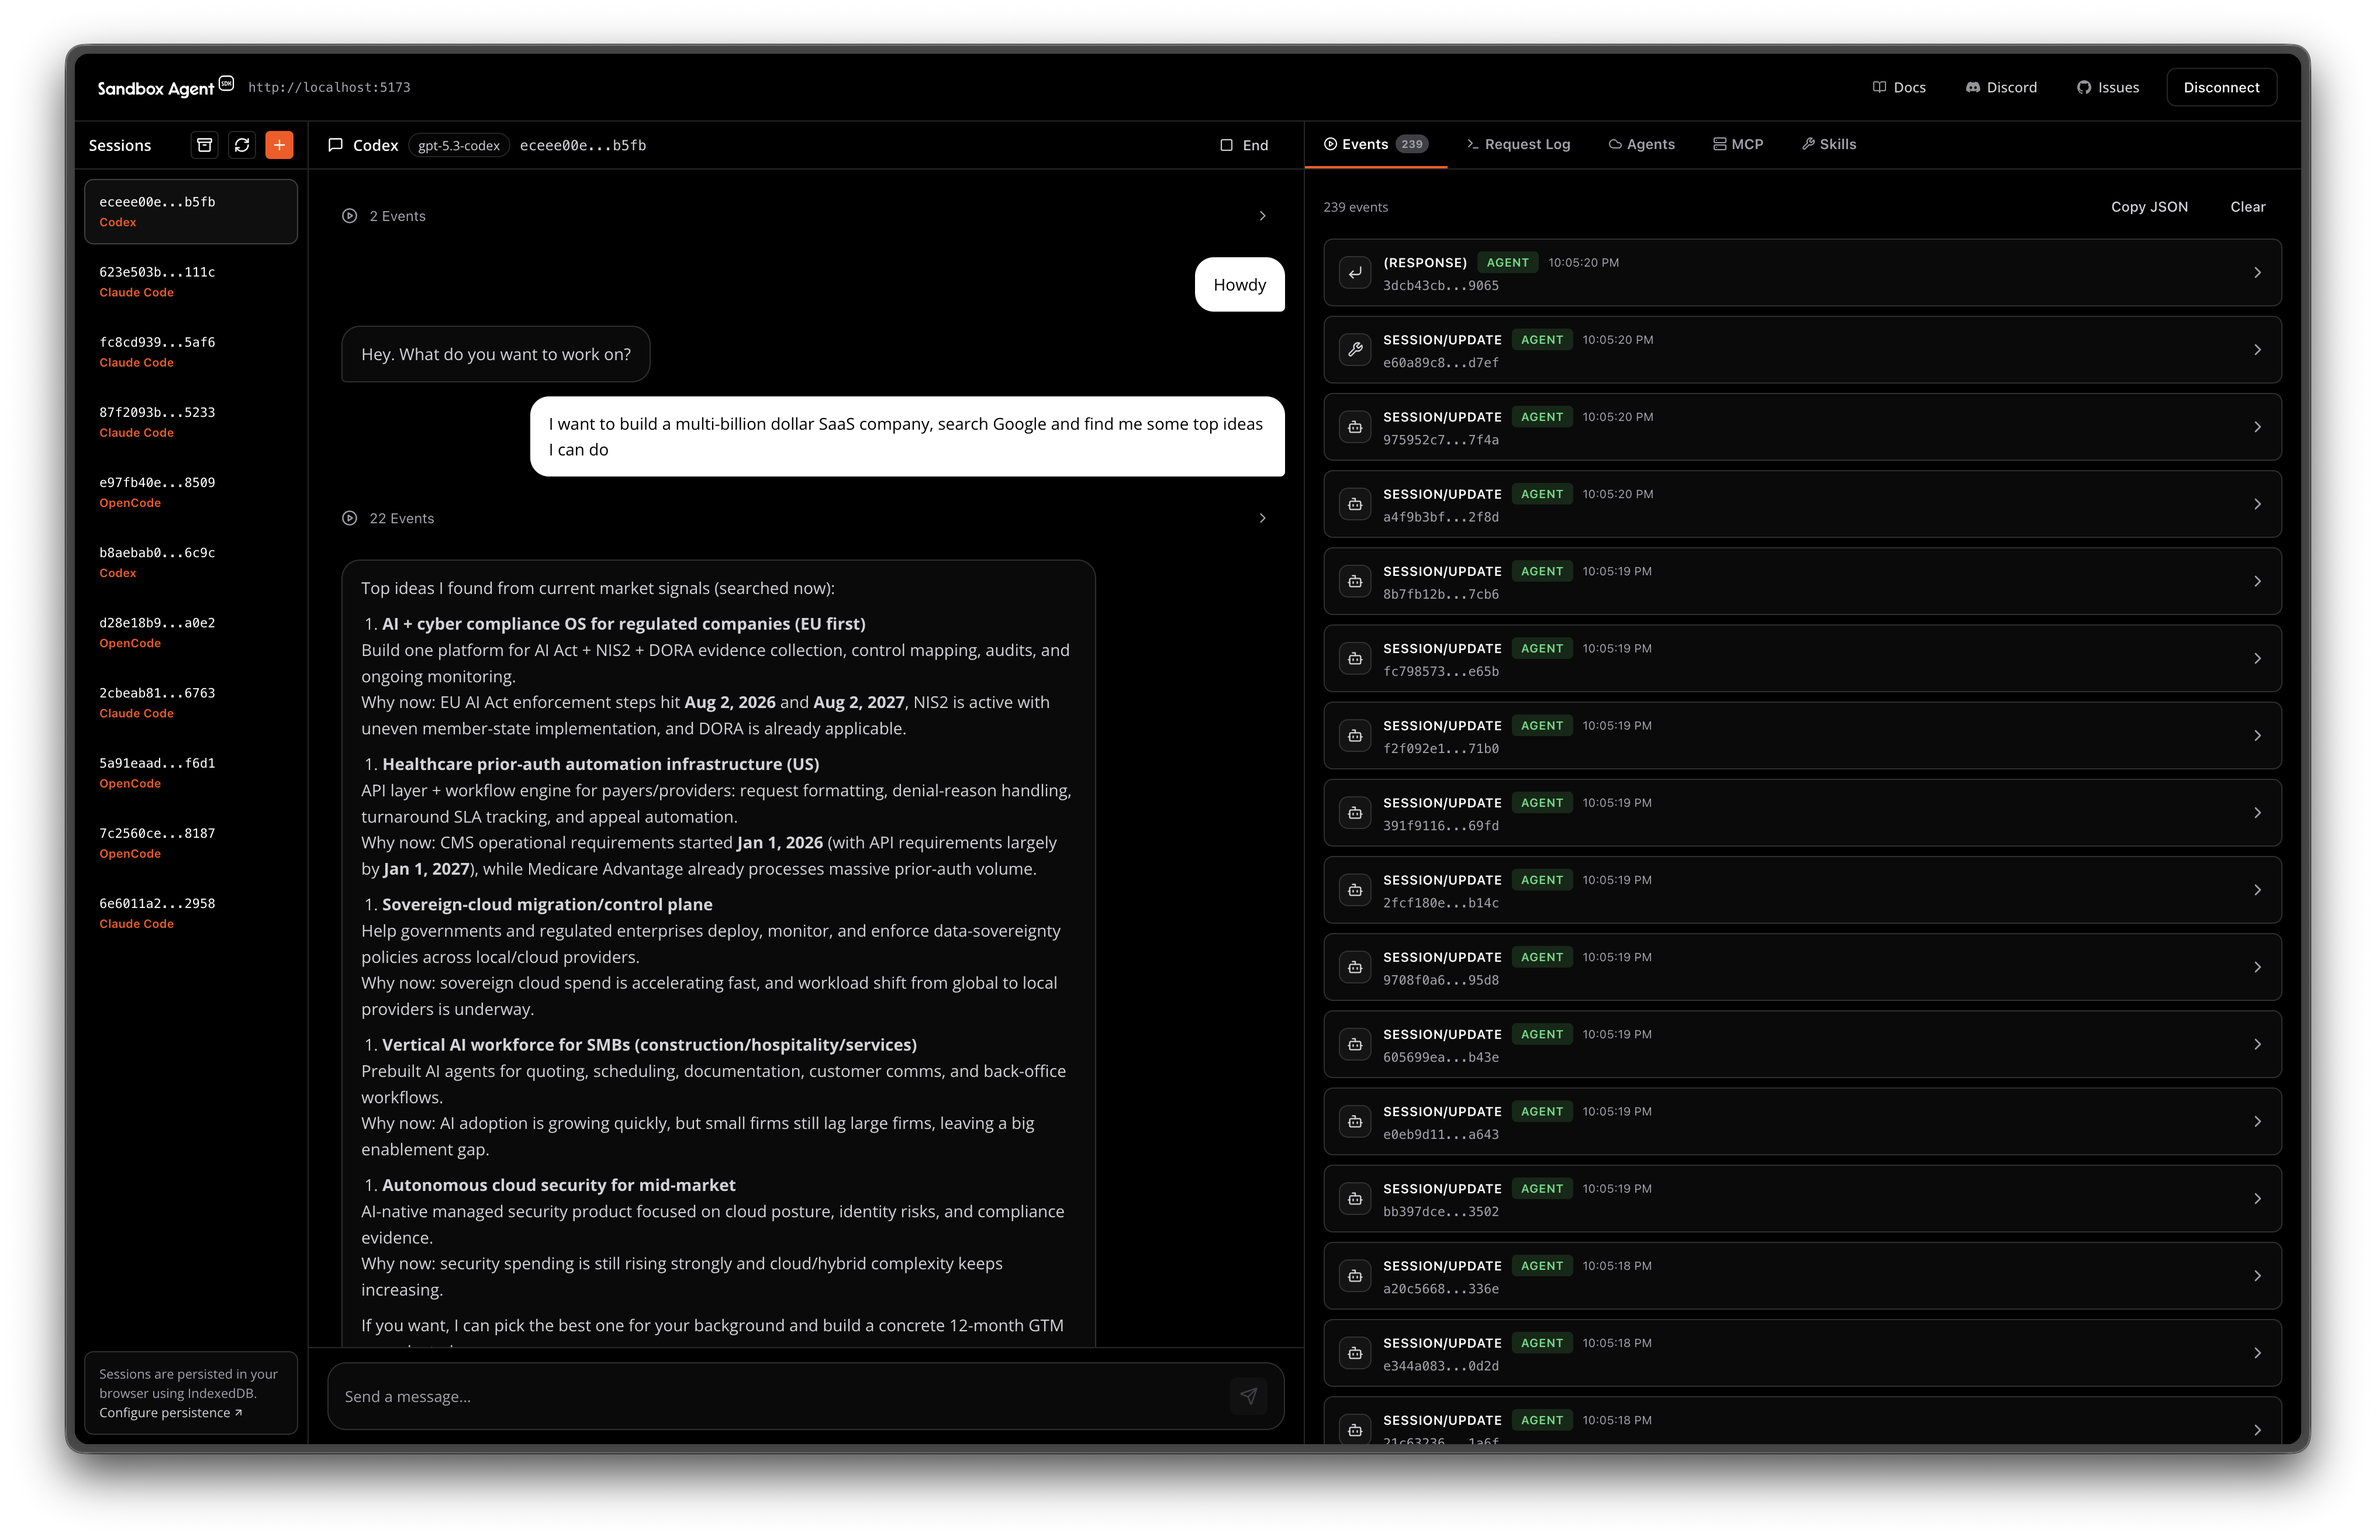
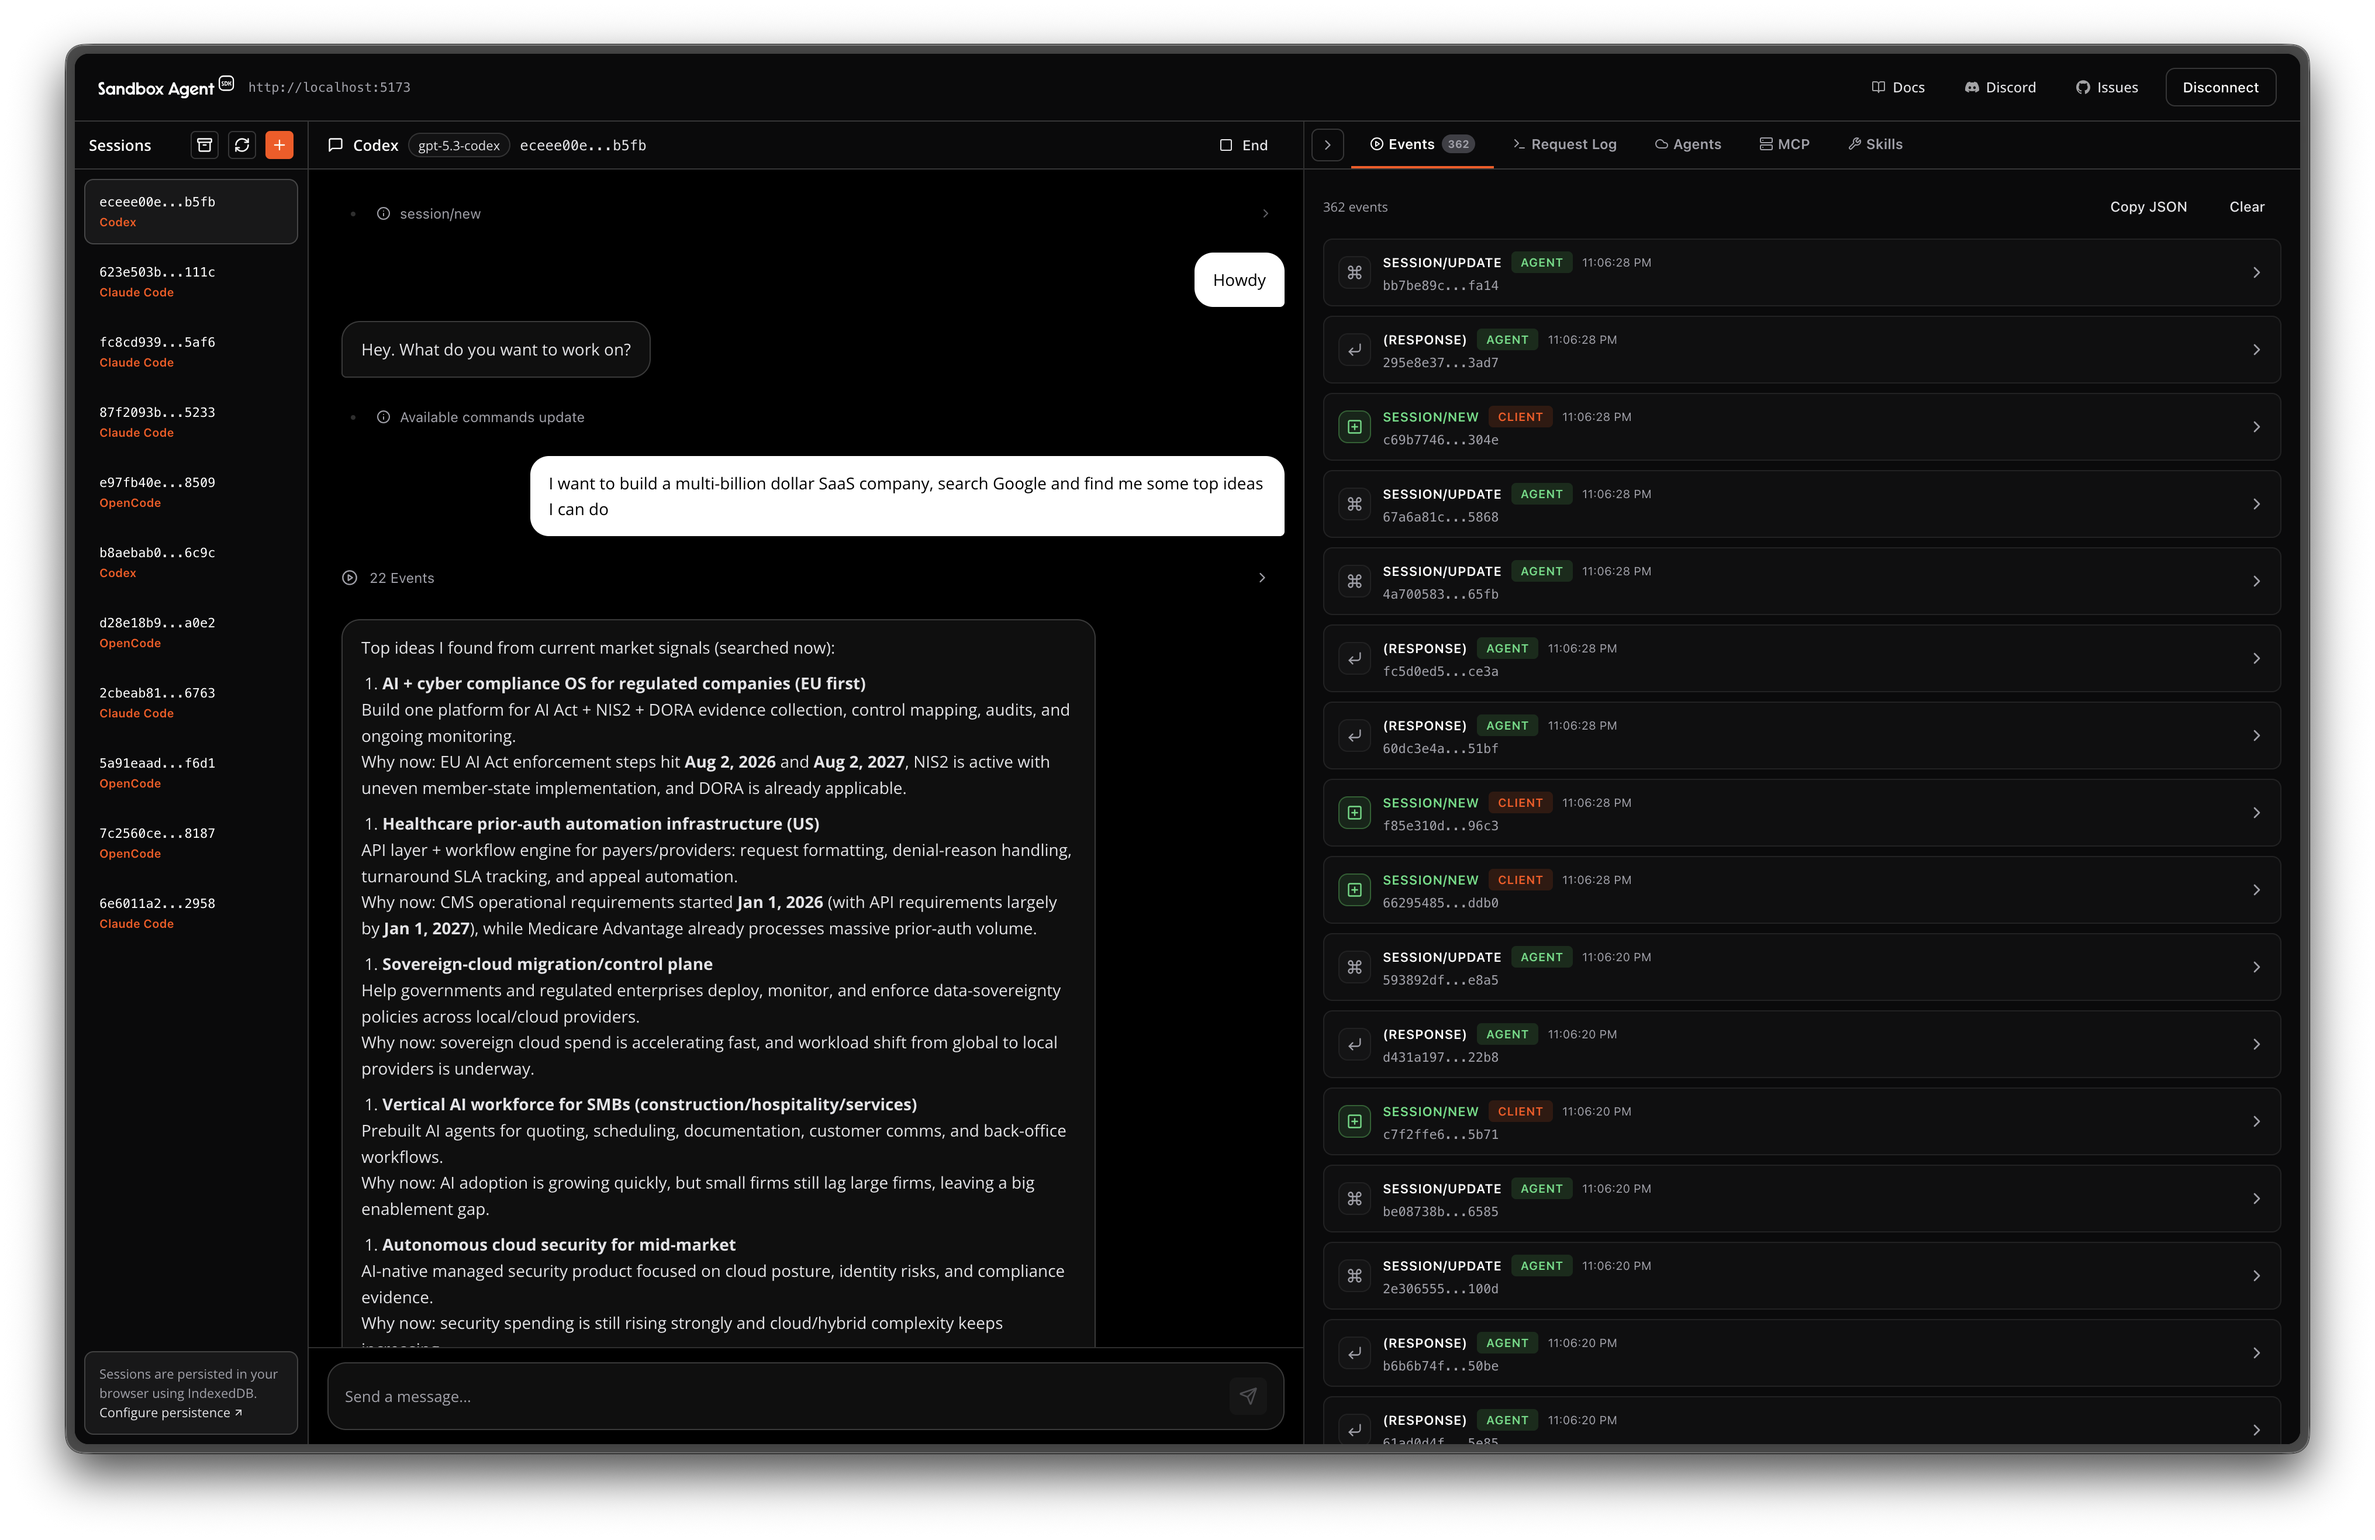
feat(inspector): improve contrast and add collapsible debug panel (#182)

diff --git a/frontend/packages/inspector/index.html b/frontend/packages/inspector/index.html
@@ -14,16 +14,17 @@
         color-scheme: dark;
         /* Match landing page colors - high contrast */
         --bg: #000000;
-        --surface: rgba(255, 255, 255, 0.04);
-        --surface-2: rgba(255, 255, 255, 0.02);
-        --border: rgba(255, 255, 255, 0.15);
-        --border-2: rgba(255, 255, 255, 0.12);
-        --input-bg: rgba(255, 255, 255, 0.05);
-        --input-border: rgba(255, 255, 255, 0.18);
+        --bg-panel: #0a0a0b;
+        --surface: rgba(255, 255, 255, 0.06);
+        --surface-2: rgba(255, 255, 255, 0.03);
+        --border: rgba(255, 255, 255, 0.18);
+        --border-2: rgba(255, 255, 255, 0.14);
+        --input-bg: rgba(255, 255, 255, 0.07);
+        --input-border: rgba(255, 255, 255, 0.22);
         --text: #ffffff;
-        --text-secondary: #d4d4d8; /* zinc-300 */
+        --text-secondary: #e4e4e7; /* zinc-200 */
         --muted: #a1a1aa; /* zinc-400 */
-        --muted-2: #71717a; /* zinc-500 */
+        --muted-2: #8b8b93; /* between zinc-400 and zinc-500 */
         --accent: #ff4f00;
         --accent-hover: #ff6a00;
         --success: #4ade80; /* green-400 */
@@ -87,7 +88,7 @@
         justify-content: space-between;
         padding: 12px 20px;
         border-bottom: 1px solid var(--border);
-        background: var(--bg);
+        background: var(--bg-panel);
         flex-shrink: 0;
       }
 
@@ -476,6 +477,11 @@
         grid-template-columns: 200px 1fr 1fr;
         flex: 1;
         overflow: hidden;
+        transition: grid-template-columns 0.2s ease;
+      }
+
+      .main-layout.debug-collapsed {
+        grid-template-columns: 200px 1fr 42px;
       }
 
       /* Session Sidebar */
@@ -483,7 +489,7 @@
         display: flex;
         flex-direction: column;
         border-right: 1px solid var(--border);
-        background: var(--bg);
+        background: var(--bg-panel);
         overflow: visible;
       }
 
@@ -1234,7 +1240,7 @@
         height: 41px;
         padding: 0 16px;
         border-bottom: 1px solid var(--border);
-        background: var(--bg);
+        background: var(--bg-panel);
         flex-shrink: 0;
         display: flex;
         align-items: center;
@@ -2455,13 +2461,14 @@
         display: flex;
         flex-direction: column;
         overflow: hidden;
+        background: var(--bg-panel);
       }
 
       .debug-tabs {
         display: flex;
         height: 41px;
         border-bottom: 1px solid var(--border);
-        background: var(--bg);
+        background: var(--bg-panel);
         flex-shrink: 0;
         overflow-x: auto;
       }
@@ -2511,6 +2518,49 @@
         flex: 1;
         overflow-y: auto;
         padding: 16px;
+      }
+
+      .debug-panel.collapsed .debug-content {
+        display: none;
+      }
+
+      .debug-panel.collapsed .debug-tabs {
+        flex-direction: column;
+        height: auto;
+        border-bottom: none;
+        overflow: visible;
+      }
+
+      .debug-panel.collapsed .debug-tab {
+        display: none;
+      }
+
+      .debug-collapse-btn {
+        width: 28px;
+        height: 28px;
+        min-width: 28px;
+        margin: 6px;
+        padding: 0;
+        display: flex;
+        align-items: center;
+        justify-content: center;
+        background: transparent;
+        border: 1px solid var(--border);
+        border-radius: var(--radius-sm);
+        color: var(--muted);
+        cursor: pointer;
+        transition: color var(--transition), border-color var(--transition), background var(--transition);
+        flex-shrink: 0;
+      }
+
+      .debug-collapse-btn:hover {
+        color: var(--text);
+        border-color: var(--text-secondary);
+        background: var(--surface);
+      }
+
+      .debug-panel.collapsed .debug-collapse-btn {
+        margin: 6px auto;
       }
 
       /* Session Setup */
@@ -2637,19 +2687,19 @@
       }
 
       .event-item {
-        background: var(--surface);
-        border: 1px solid var(--border);
+        background: rgba(255, 255, 255, 0.02);
+        border: 1px solid rgba(255, 255, 255, 0.08);
         border-radius: var(--radius);
         overflow: hidden;
         transition: border-color var(--transition);
       }
 
       .event-item:hover {
-        border-color: rgba(255, 255, 255, 0.2);
+        border-color: rgba(255, 255, 255, 0.12);
       }
 
       .event-item.expanded {
-        border-color: rgba(255, 255, 255, 0.2);
+        border-color: rgba(255, 255, 255, 0.12);
       }
 
       .event-item.highlighted {
@@ -2684,9 +2734,9 @@
         width: 28px;
         height: 28px;
         border-radius: 8px;
-        border: 1px solid var(--border-2);
-        background: rgba(255, 255, 255, 0.04);
-        color: var(--text-secondary);
+        border: 1px solid rgba(255, 255, 255, 0.06);
+        background: rgba(255, 255, 255, 0.02);
+        color: var(--muted);
         flex-shrink: 0;
       }
 

diff --git a/frontend/packages/inspector/src/components/debug/DebugPanel.tsx b/frontend/packages/inspector/src/components/debug/DebugPanel.tsx
@@ -1,4 +1,4 @@
-import { Cloud, PlayCircle, Server, Terminal, Wrench } from "lucide-react";
+import { ChevronLeft, ChevronRight, Cloud, PlayCircle, Server, Terminal, Wrench } from "lucide-react";
 import type { AgentInfo, SandboxAgent, SessionEvent } from "sandbox-agent";
 
 type AgentModeInfo = { id: string; name: string; description: string };
@@ -30,6 +30,8 @@ const DebugPanel = ({
   agentsLoading,
   agentsError,
   getClient,
+  collapsed,
+  onToggleCollapse,
 }: {
   debugTab: DebugTab;
   onDebugTabChange: (tab: DebugTab) => void;
@@ -49,10 +51,19 @@ const DebugPanel = ({
   agentsLoading: boolean;
   agentsError: string | null;
   getClient: () => SandboxAgent;
+  collapsed?: boolean;
+  onToggleCollapse?: () => void;
 }) => {
   return (
-    <div className="debug-panel">
+    <div className={`debug-panel ${collapsed ? "collapsed" : ""}`}>
       <div className="debug-tabs">
+        <button
+          className="debug-collapse-btn"
+          onClick={onToggleCollapse}
+          title={collapsed ? "Expand panel" : "Collapse panel"}
+        >
+          {collapsed ? <ChevronLeft size={14} /> : <ChevronRight size={14} />}
+        </button>
         <button className={`debug-tab ${debugTab === "events" ? "active" : ""}`} onClick={() => onDebugTabChange("events")}>
           <PlayCircle className="button-icon" style={{ marginRight: 4, width: 12, height: 12 }} />
           Events

diff --git a/frontend/packages/inspector/src/App.tsx b/frontend/packages/inspector/src/App.tsx
@@ -288,6 +288,7 @@ export default function App() {
 
   const [debugTab, setDebugTab] = useState<DebugTab>("events");
   const [highlightedEventId, setHighlightedEventId] = useState<string | null>(null);
+  const [debugPanelCollapsed, setDebugPanelCollapsed] = useState(false);
 
   const messagesEndRef = useRef<HTMLDivElement>(null);
 
@@ -1614,7 +1615,7 @@ export default function App() {
         </div>
       </header>
 
-      <main className="main-layout">
+      <main className={`main-layout ${debugPanelCollapsed ? "debug-collapsed" : ""}`}>
         <SessionSidebar
           sessions={sessions}
           selectedSessionId={sessionId}
@@ -1704,6 +1705,8 @@ export default function App() {
           agentsLoading={agentsLoading}
           agentsError={agentsError}
           getClient={getClient}
+          collapsed={debugPanelCollapsed}
+          onToggleCollapse={() => setDebugPanelCollapsed(!debugPanelCollapsed)}
         />
       </main>
       {toastStack}

diff --git a/frontend/packages/website/src/components/Hero.tsx b/frontend/packages/website/src/components/Hero.tsx
@@ -23,7 +23,7 @@ function UniversalAPIDiagram() {
   }, []);
 
   return (
-    <div className="relative w-full aspect-[16/9] bg-[#050505] rounded-2xl border border-white/10 overflow-hidden flex items-center justify-center shadow-2xl">
+    <div className="relative w-full aspect-[4/3] sm:aspect-[16/9] bg-[#050505] rounded-2xl border border-white/10 overflow-hidden flex items-center justify-center shadow-2xl">
       {/* Background Dots - color changes with active adapter */}
       <div
         className="absolute inset-0 opacity-[0.15] pointer-events-none transition-all duration-1000"
